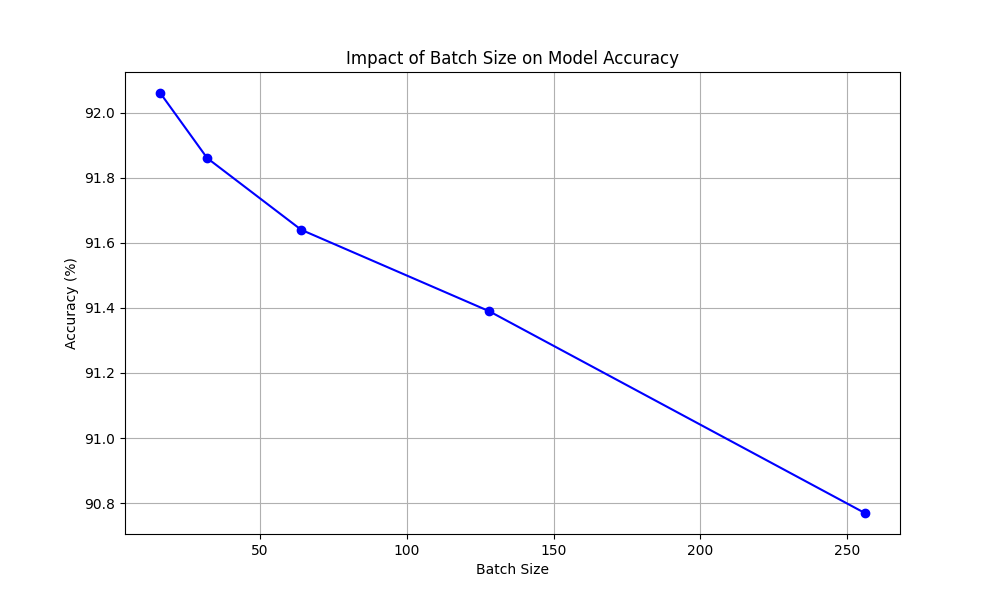
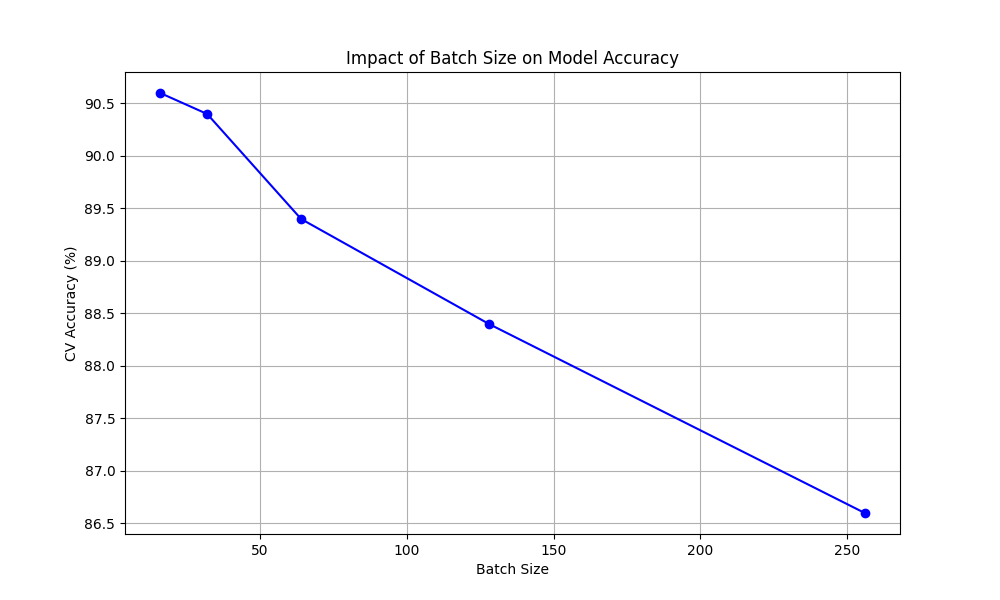
cv running with cross val

diff --git a/src/grid_search/LogReg/run_logreg_gs.py b/src/grid_search/LogReg/run_logreg_gs.py
@@ -14,8 +14,6 @@ import yaml
 
 PATH_TO_ROOT = git.Repo(".", search_parent_directories=True).working_dir
 sys.path.append(PATH_TO_ROOT)
-
-from models.CNN import ConvNet
 from src.utils import utils
 from src.utils.cross_validation import run_cv
 
@@ -24,13 +22,57 @@ Script in progress, need to decide how to grid search logreg before proceeding
 """
 if __name__ == "__main__":
     config_path = utils.get_config_path(
-        default_path=PATH_TO_ROOT + "/src/run_LogReg.yaml"
+        default_path=PATH_TO_ROOT + "/src/grid_search/LogReg/run_logreg_gs.yaml"
     )
 
     config = utils.get_config(config_path)
     torch.manual_seed(config["seed"])
 
+    transform = tv.transforms.Compose([
+        tv.transforms.ToTensor()
+    ])
+    trainset = tv.datasets.MNIST(root=PATH_TO_ROOT+'data/', train=True, download=False, transform=transform)
+    testset = tv.datasets.MNIST(root=PATH_TO_ROOT+'data', train=False,transform=transform, download=False) 
+
     # Get parameter lists from config
     learning_rates = config["learning_rates"]
     batch_sizes = config["batch_sizes"]
     epochs_list = config["epochs_list"]
+
+    # Lists to store results
+    lr_accuracies = []
+    batch_accuracies = []
+    epoch_accuracies = []
+
+    for lr in learning_rates:
+        val_accuracies = run_cv(trainset, config, epochs=10, learning_rate=lr)
+        mean_accuracy = float(np.mean(val_accuracies))
+        std_accuracy = float(np.std(val_accuracies))
+        lr_accuracies.append(mean_accuracy)
+        print(f"Learning Rate: {lr}, CV Accuracy: {mean_accuracy:.2f}% with standard deviation {std_accuracy:.2f}")
+
+    for batch_size in batch_sizes:
+        val_accuracies = run_cv(trainset, config, epochs=10, learning_rate=0.01, batch_size=batch_size)
+        mean_accuracy = float(np.mean(val_accuracies))
+        std_accuracy = float(np.std(val_accuracies))
+        batch_accuracies.append(mean_accuracy)
+        print(f"Batch size: {batch_size}, CV Accuracy: {mean_accuracy:.2f}% with standard deviation {std_accuracy:.2f}")
+
+    for epoch in epochs_list:
+        val_accuracies = run_cv(trainset, config, epochs=10, learning_rate=0.01)
+        mean_accuracy = float(np.mean(val_accuracies))
+        std_accuracy = float(np.std(val_accuracies))
+        epoch_accuracies.append(mean_accuracy)
+        print(f"Epochs: {epoch}, CV Accuracy: {mean_accuracy:.2f}% with standard deviation {std_accuracy:.2f}")
+
+
+    # Create plots
+    utils.plot_parameter_study(learning_rates, lr_accuracies, "Learning Rate")
+    utils.plot_parameter_study(batch_sizes, batch_accuracies, "Batch Size")
+    utils.plot_parameter_study(epochs_list, epoch_accuracies, "Number of Epochs")
+
+
+
+
+
+

diff --git a/src/utils/cross_validation.py b/src/utils/cross_validation.py
@@ -1,15 +1,11 @@
 
 import sys
 from tqdm import tqdm
-import numpy as np
-import seaborn as sns
-import matplotlib.pyplot as plt
 from sklearn.model_selection import StratifiedKFold
 import torch
 import torch.nn as nn
-import torch.optim as optim
-import torchvision as tv
-from torch.utils.data import Subset, DataLoader
+import torch.optim 
+from torch.utils.data import DataLoader
 import git 
 import yaml
 
@@ -20,15 +16,18 @@ from src.models.CNN import ConvNet
 from src.models.LogisticRegression import LogisticRegression
 from src.utils import utils
 
-def run_cv(trainset: torch.Tensor, config: dict, epochs: int, learning_rate: float, layer_configs: dict=None) -> dict:
+def run_cv(trainset: torch.Tensor, config: dict, epochs: int, learning_rate: float, layer_configs: dict=None, batch_size = None) -> dict:
             # Initialize cross validation
             kfold = StratifiedKFold(n_splits=config["n_splits"]).split(trainset, trainset.targets)
             val_accuracies = []
+
+            if batch_size == None:
+                batch_size = config['batch_size']
             for k, (train_idx, val_idx) in enumerate(kfold):
                 torch.manual_seed(k)
 
-                trainloader = DataLoader(trainset, batch_size=config['batch_size'], sampler=torch.utils.data.SubsetRandomSampler(train_idx))
-                valloader = DataLoader(trainset, batch_size=config['batch_size'], sampler=torch.utils.data.SubsetRandomSampler(val_idx))
+                trainloader = DataLoader(trainset, batch_size=batch_size, sampler=torch.utils.data.SubsetRandomSampler(train_idx))
+                valloader = DataLoader(trainset, batch_size=batch_size, sampler=torch.utils.data.SubsetRandomSampler(val_idx))
 
                 #Initialize model with grid search values
                 if config['model_type'] == "cnn":

diff --git a/src/utils/utils.py b/src/utils/utils.py
@@ -80,3 +80,12 @@ def plot_grid_heatmap(df: pd.DataFrame, config_path:str, filename=None, title: s
         plt.show()
 
 
+def plot_parameter_study(param_values, accuracies, param_name):
+    plt.figure(figsize=(10, 6))
+    plt.plot(param_values, accuracies, 'bo-')
+    plt.xlabel(param_name)
+    plt.ylabel('CV Accuracy (%)')
+    plt.title(f'Impact of {param_name} on Model Accuracy')
+    plt.grid(True)
+    plt.savefig(f'{PATH_TO_ROOT}/results/logreg/{param_name.lower().replace(" ", "_")}_study.png')
+    plt.close()
